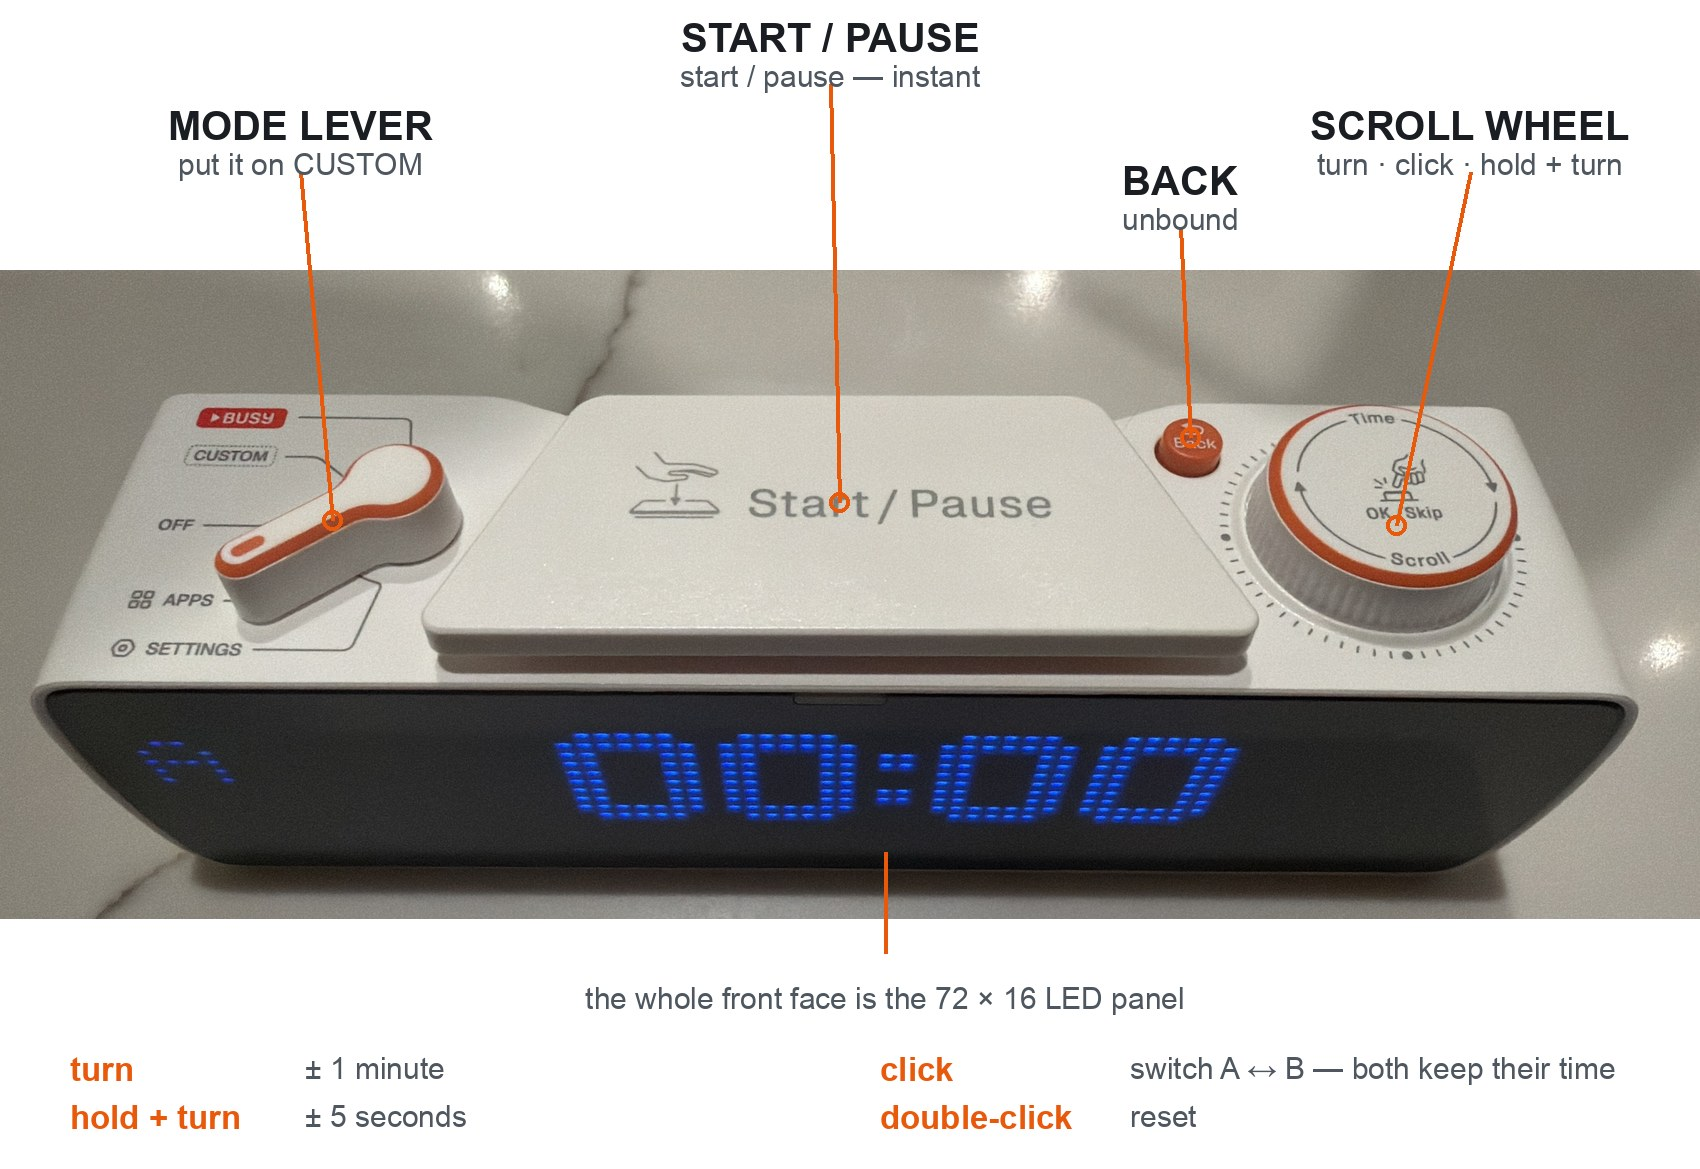
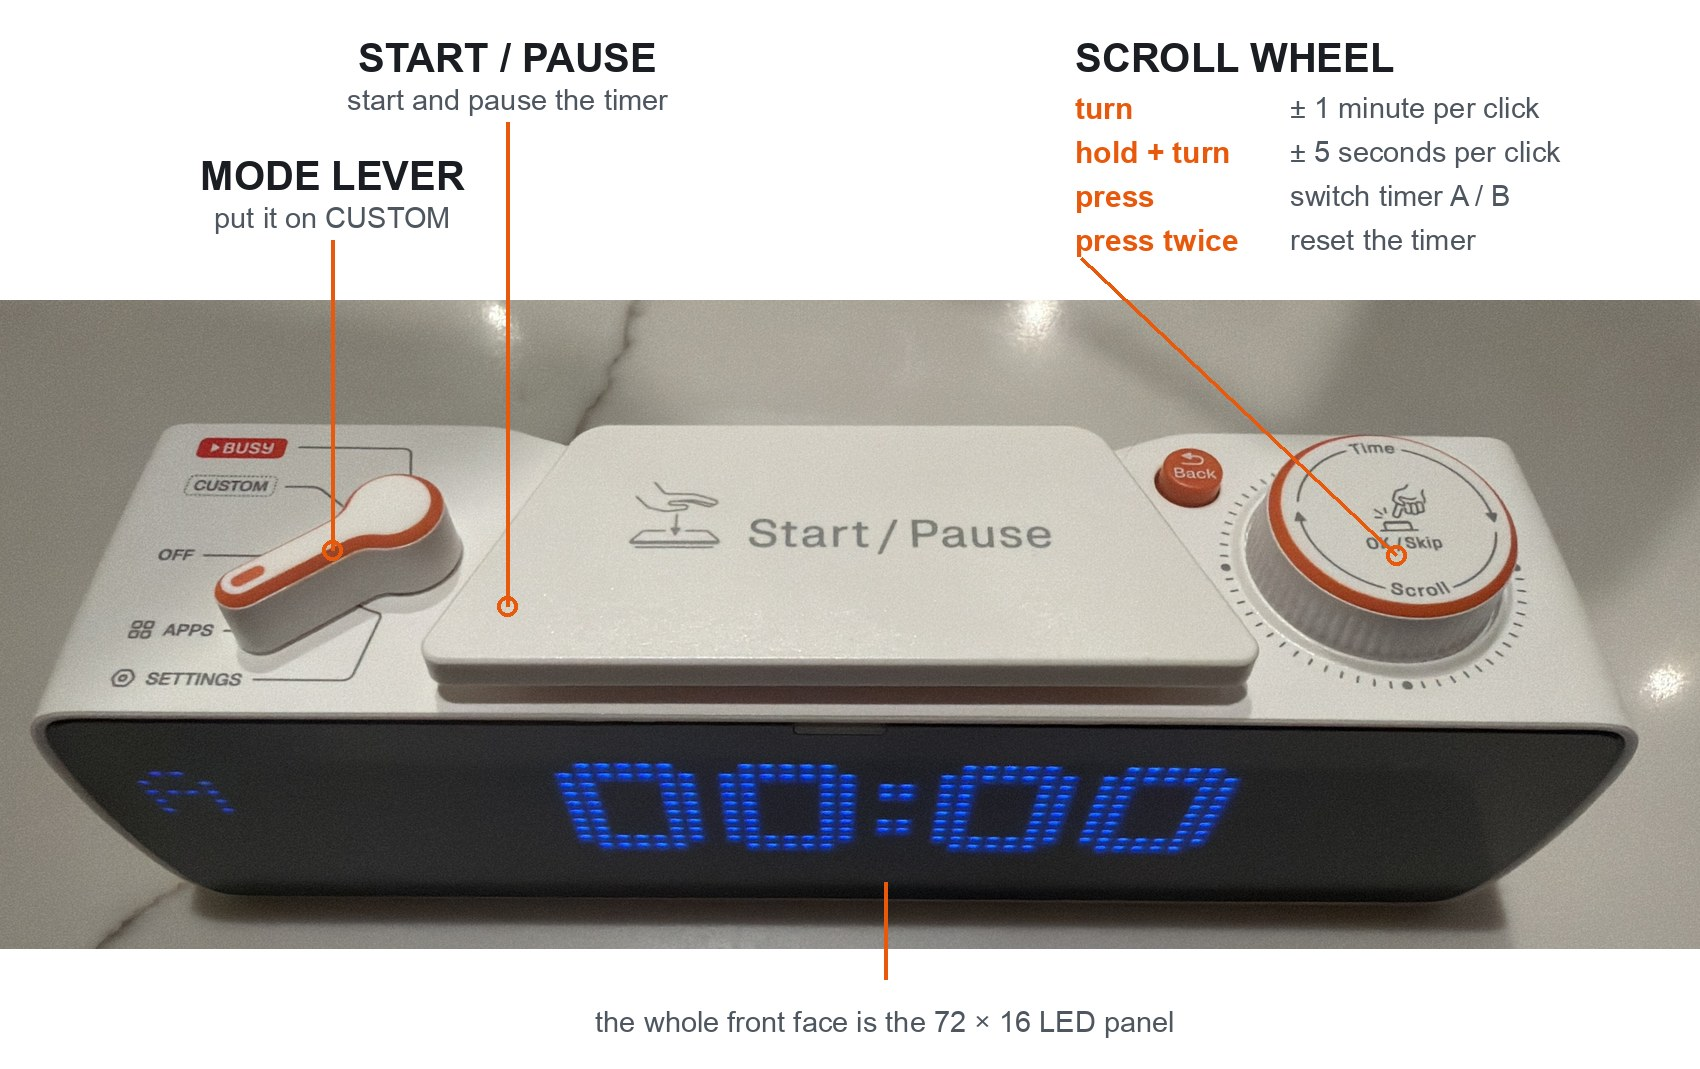
Align the expiry flash to the render tick; clearer controls photo
The 2 Hz flash was uneven on the device, not just in capture. The render tick is
200 ms and a 2 Hz flash needs to change state every 250 ms, so the two beat
against each other and the panel visibly dropped and doubled frames. flashHz is
now 2.5, whose half-period is exactly one tick, so the panel flips once per tick
and the flash is even -- measured 16 inverted against 14 normal across an alarm,
where 2 Hz gave 17 against 38. Documented in config.ts, along with the other
rates that divide cleanly.

Recaptured the demo GIF so it shows the inverting alarm, sampling at 150 ms
instead of 300 ms to resolve the flash rather than alias across it.

Controls photo reworked from feedback: the scroll wheel's functions are now
plain -- turn, hold + turn, press, press twice -- with what each does beside it,
so the separate key underneath is gone and every function is a callout on the
image. The BACK label is dropped, since the button is unbound and naming it only
invited questions. Leader lines for START and the mode lever are now vertical
and land on blank areas, rather than cutting across the printed "Start / Pause"
text.

diff --git a/src/config.ts b/src/config.ts
@@ -186,7 +186,13 @@ const DEFAULTS: Config = {
     holdSeconds: 300,
     // The alarm inverts the whole panel at this rate — solid colour with the
     // text knocked out, alternating with text on black. 0 holds it steady.
-    flashHz: 2,
+    //
+    // 2.5 Hz is not arbitrary: the half-period is 200 ms, exactly one render
+    // tick, so the panel flips once per tick and the flash is even. Rates whose
+    // half-period is not a multiple of the tick beat against it and stutter —
+    // 2 Hz needs 250 ms and visibly drops and doubles frames. Sensible even
+    // choices are 2.5, 1.25 and 0.833 Hz.
+    flashHz: 2.5,
     ledColor: '#E60022FF', // BUSY's brand error red
     sound: { mode: 'asset', file: 'chime.wav', stockPath: null, repeat: 3, repeatEveryMs: 1200 },
   },
